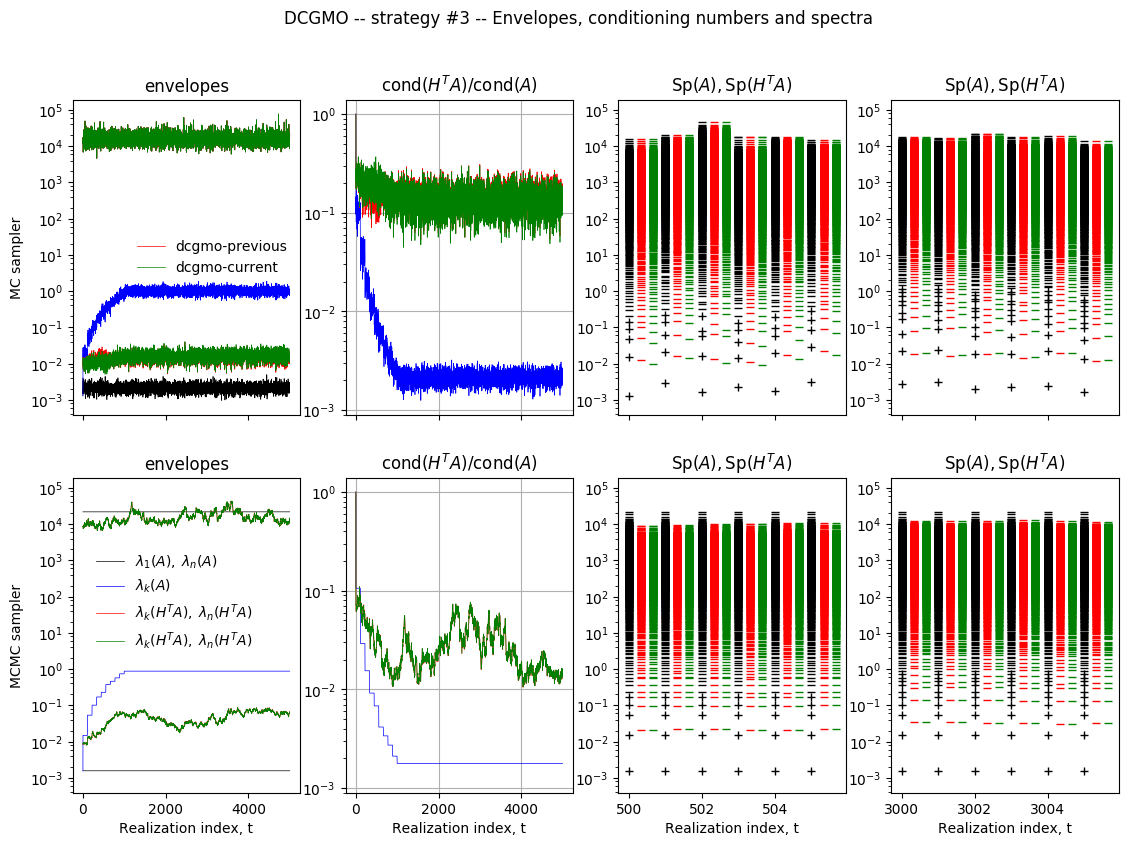
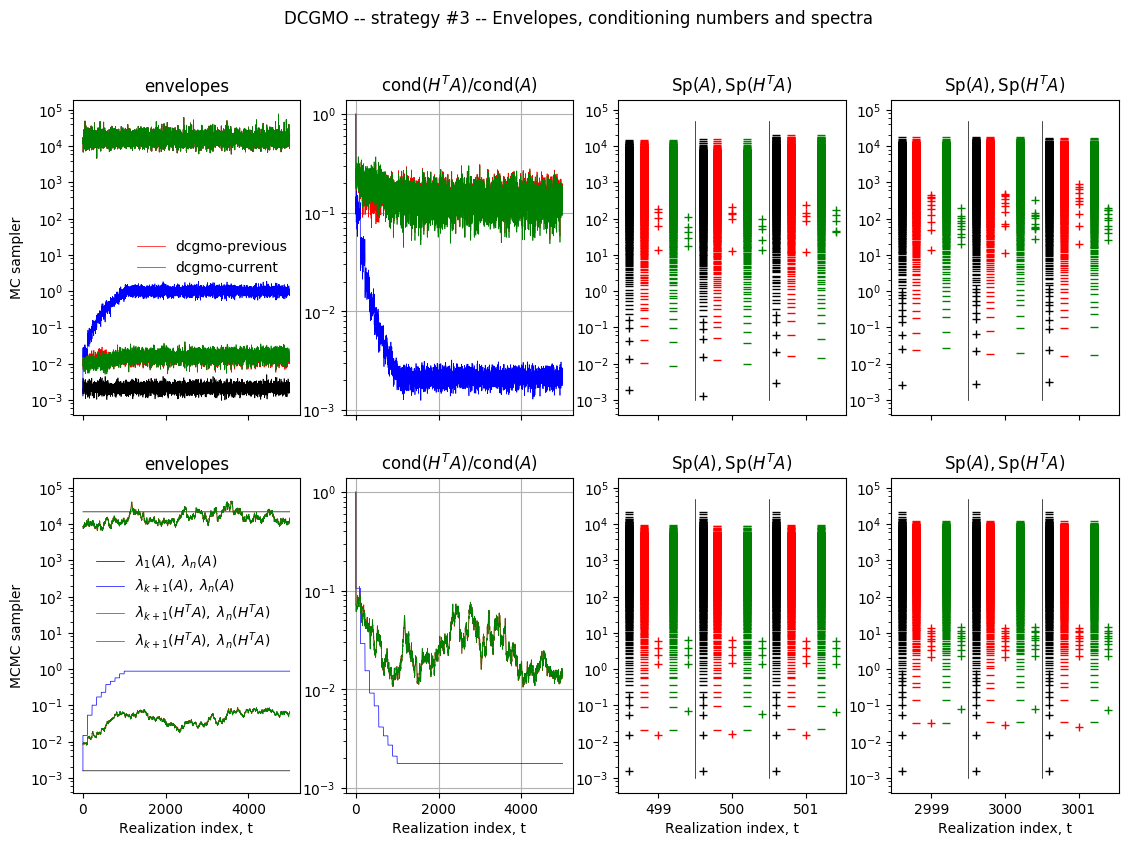
first-commit

diff --git a/examples/example05_recycler.py b/examples/example05_recycler.py
@@ -11,7 +11,7 @@ sig2, L = .357, 0.05
 model = "Exp"
 
 kl = 20
-case = "b" # {"a", "b", "c"}
+case = "c" # {"a", "b", "c"}
 
 
 smp, dcg, dcgmo = {}, {}, {}
@@ -49,6 +49,7 @@ for __smp in ("mc", "mcmc"):
 
 cgmo_it = {"mc":[], "mcmc":[]}
 dcgmo_it, dcgmo_kdim, dcgmo_ell, dcgmo_approx_eigvals = {}, {}, {}, {}
+dcgmo_ritz_coef, dcgmo_eigen_error = {}, {}
 smp_SpA, dcgmo_SpHtA = {"mc":[], "mcmc":[]}, {}
 
 for i_smp in range(nsmp):
@@ -64,6 +65,7 @@ for i_smp in range(nsmp):
       if not (dcgmo_SpHtA.has_key(_dcgmo)):
         dcgmo_SpHtA[_dcgmo] = []
         dcgmo_kdim[_dcgmo], dcgmo_ell[_dcgmo], dcgmo_approx_eigvals[_dcgmo] = [], [], []
+        dcgmo_ritz_coef[_dcgmo], dcgmo_eigen_error[_dcgmo] = [], []
         dcgmo_it[_dcgmo] = []
 
       dcgmo[_dcgmo].do_assembly()
@@ -76,9 +78,14 @@ for i_smp in range(nsmp):
         HtA = dcgmo[_dcgmo].solver.get_deflated_op()
         dcgmo_SpHtA[_dcgmo] += [np.linalg.eigvalsh(HtA.A)]
         dcgmo_approx_eigvals[_dcgmo] += [np.copy(dcgmo[_dcgmo].eigvals)]
+        dcgmo_ritz_coef[_dcgmo] += [np.copy(dcgmo[_dcgmo].ritz_coef)]
+        dcgmo_eigen_error[_dcgmo] += [np.copy(dcgmo[_dcgmo].eigen_error)]
+
       else:
         dcgmo_SpHtA[_dcgmo] += [np.array(smp["mc"].n*[None])]
         dcgmo_approx_eigvals[_dcgmo] += [None]
+        dcgmo_ritz_coef[_dcgmo] += [None]
+        dcgmo_eigen_error[_dcgmo] += [None]
 
       dcgmo[_dcgmo].solve()
       dcgmo_it[_dcgmo] = [dcgmo[_dcgmo].solver.it]
@@ -99,6 +106,7 @@ while (smp["mcmc"].cnt_accepted_proposals <= nsmp):
         if not (dcgmo_SpHtA.has_key(_dcgmo)):
           dcgmo_SpHtA[_dcgmo] = []
           dcgmo_kdim[_dcgmo], dcgmo_ell[_dcgmo], dcgmo_approx_eigvals[_dcgmo] = [], [], []
+          dcgmo_ritz_coef[_dcgmo], dcgmo_eigen_error[_dcgmo] = [], []
           dcgmo_it[_dcgmo] = []
 
         dcgmo[_dcgmo].do_assembly()
@@ -114,11 +122,15 @@ while (smp["mcmc"].cnt_accepted_proposals <= nsmp):
           HtA = dcgmo[_dcgmo].solver.get_deflated_op()
           dcgmo_SpHtA[_dcgmo] += [np.linalg.eigvalsh(HtA.A)]
           dcgmo_approx_eigvals[_dcgmo] += [np.copy(dcgmo[_dcgmo].eigvals)]
+          dcgmo_ritz_coef[_dcgmo] += [np.copy(dcgmo[_dcgmo].ritz_coef)]
+          dcgmo_eigen_error[_dcgmo] += [np.copy(dcgmo[_dcgmo].eigen_error)]
         else:
           dcgmo_SpHtA[_dcgmo] += [np.array(smp["mcmc"].n*[None])]
           dcgmo_approx_eigvals[_dcgmo] += [None]
+          dcgmo_ritz_coef[_dcgmo] += [None]
+          dcgmo_eigen_error[_dcgmo] += [None]
 
     print("%d/%d" %(smp["mcmc"].cnt_accepted_proposals+1, nsmp))
 
-save_data(smp, smp_SpA, dcgmo_SpHtA, dcgmo_kdim, dcgmo_approx_eigvals, case)
+save_data(smp, smp_SpA, dcgmo_SpHtA, dcgmo_kdim, dcgmo_approx_eigvals, dcgmo_ritz_coef, dcgmo_eigen_error, case)
 plot(case=case)

diff --git a/examples/example05_recycler_plot.py b/examples/example05_recycler_plot.py
@@ -25,12 +25,14 @@ def get_envelopes_HtA(SpHtA, dcgmo_kdim):
   SpHtA_n = [Sp[-1] for Sp in SpHtA]
   return SpHtA_k, SpHtA_n
 
-def save_data(smp, smp_SpA, dcgmo_SpHtA, dcgmo_kdim, dcgmo_eigvals, case):
+def save_data(smp, smp_SpA, dcgmo_SpHtA, dcgmo_kdim, dcgmo_eigvals, dcgmo_ritz_coef, dcgmo_eigen_error, case):
   np.save(".example05_recycler_smp_"+case, smp)
   np.save(".example05_recycler_smp_SpA_"+case, smp_SpA)
   np.save(".example05_recycler_dcgmo_SpHtA_"+case, dcgmo_SpHtA)
   np.save(".example05_recycler_dcgmo_kdim_"+case, dcgmo_kdim)
   np.save(".example05_recycler_dcgmo_eigvals_"+case, dcgmo_eigvals)
+  np.save(".example05_recycler_dcgmo_ritz_coef_"+case, dcgmo_ritz_coef)
+  np.save(".example05_recycler_dcgmo_eigen_error_"+case, dcgmo_eigen_error)
 
 def load_data(case):
     smp = np.load(".example05_recycler_smp_"+case+".npy").item()
@@ -157,3 +159,6 @@ def plot(smp=None, smp_SpA=None, dcgmo_SpHtA=None, dcgmo_kdim=None, dcgmo_eigval
     ax[1,j].set_xlabel("Realization index, t")
   pl.savefig(figures_path+"example05_recycler_"+case+".png", bbox_inches='tight')
   #pl.show()
+
+
+#fig, ax = pl.subplots(1, 2, figsize=(7.5,4))

diff --git a/recyclers.py b/recyclers.py
@@ -98,7 +98,7 @@ class recycler:
     elif (self.approx == "RR"):
       eigvals, eigvecs = scipy.linalg.eigh(G, F, eigvals=(self.solver.kdim+self.solver.ell-new_kdim, self.solver.kdim+self.solver.ell-1))
     self.eigvals = eigvals
-    
+
     if (self.solver.kdim > 0) & (self.solver.ell >0):
       self.solver.W = self.solver.W.dot(eigvecs[:self.solver.kdim,:]) \
                       + self.solver.P.dot(eigvecs[self.solver.kdim:,:])
@@ -106,6 +106,13 @@ class recycler:
       self.solver.W = self.solver.W.dot(eigvecs[:self.solver.kdim,:])
     else:
       self.solver.W = self.solver.P.dot(eigvecs)
+
+    Aeigvecs = self.sampler.A.dot(self.solver.W)
+    wk2 = np.array([self.solver.W[:,k].T.dot(self.solver.W[:,k]) for k in range(new_kdim)])
+
+    self.ritz_coef = np.array([self.solver.W[:,k].T.dot(Aeigvecs[:,k]) for k in range(new_kdim)])/wk2
+    self.eigen_error = np.array([np.linalg.norm(Aeigvecs[:,k]-self.ritz_coef[k]*self.solver.W[:,k])/wk2[k]**.5 for k in range(new_kdim)])
+
 
   def __update_W(self):
     G = np.zeros((self.solver.kdim+self.solver.ell,self.solver.kdim+self.solver.ell))

diff --git a/README.tex.md b/README.tex.md
@@ -638,7 +638,7 @@ First, the strictly positive envelopes, and conditioning number, of the sampled 
 Solves the sequence $\{u(x;\theta_t)\}_{t=1}^M$ by DPCGMO for sequences $\{\kappa(x;\theta_t)\}_{t=1}^M$ sampled by MC and by MCMC. In both cases, three different constant preconditioners are used : (1) median-bJ10, (2) median and (3) median-AMG. The effect of `dp_seq` and `which_op` are investigated on the number of solver iterations in comparison to those obtained by PCG resolution.
 
 ```python
-import sys; sys.path += ["../"]
+import sys; sys.path += ["../"] 
 from samplers import sampler
 from solvers import solver
 from recyclers import recycler
